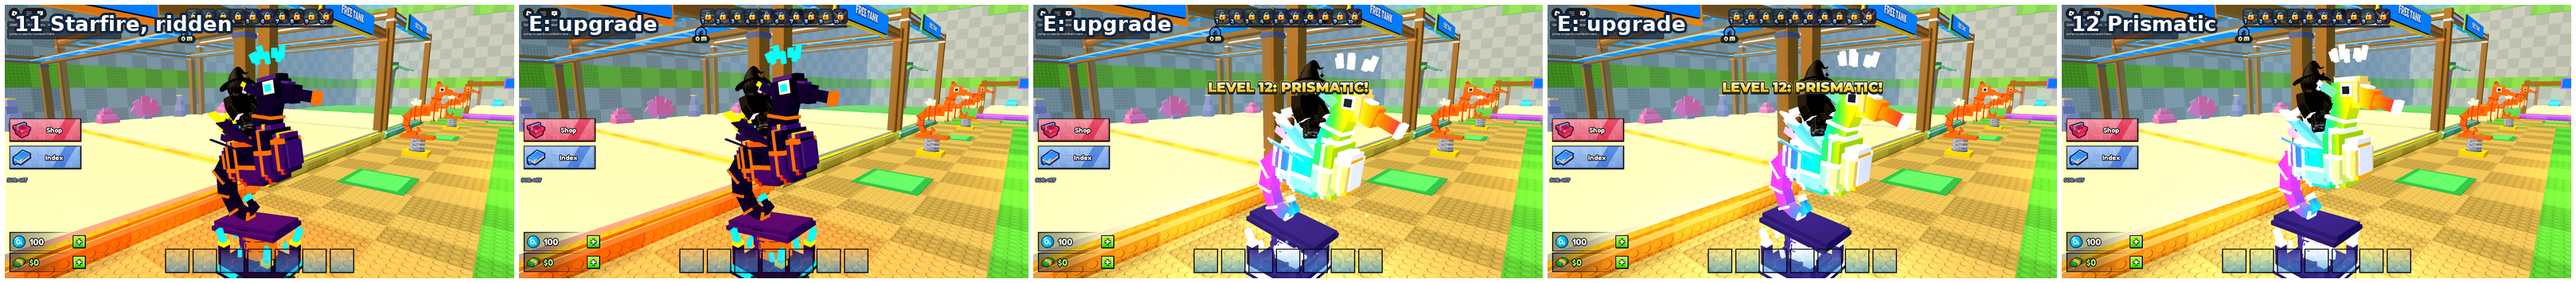
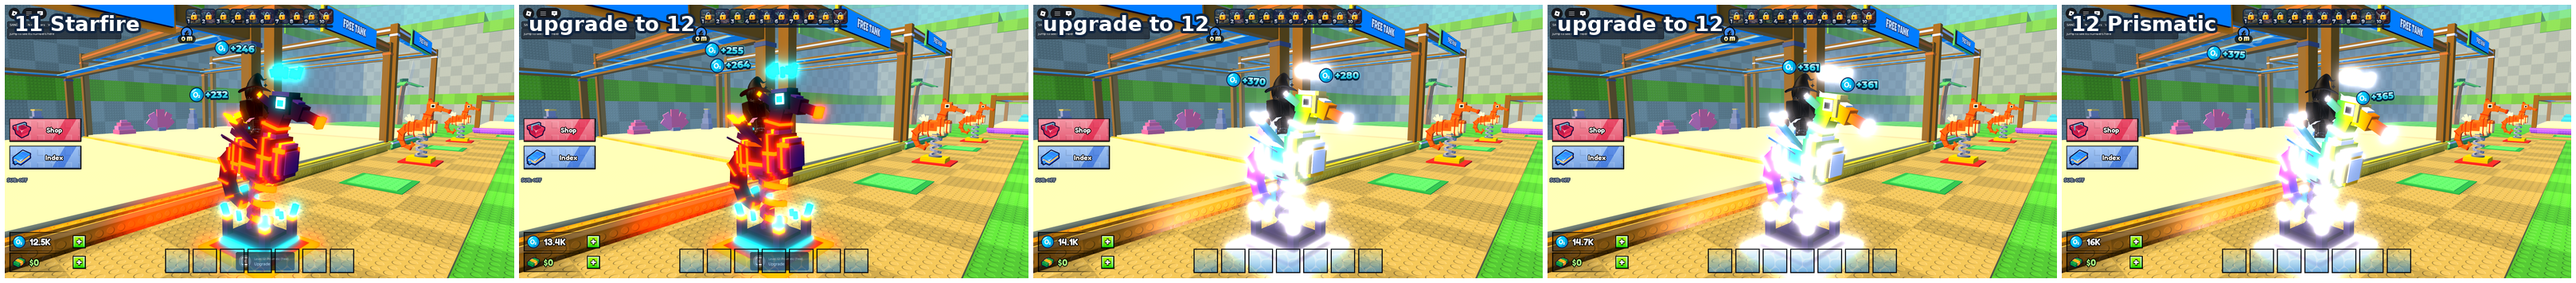
Seahorse trainer: the 12 levels in the game (task sh1), no plate
Each plot shows its owner's TrainerLevel (1-12, server's) as that level's seahorse and stand
(ReplicatedStorage.TrainerModels, exported by art/creatures/Seahorse/tiers/build_tiers.py --export,
installed locally by install_tiers.py; not uploaded). E by your own ride upgrades (free for now)
with a spring-up, flash, sparks and banner; a seated rider stays on. Hugo's change: no plate, the
coil goes from the stand straight into the belly (SpringLength 5.2, slimmer coil). Config.Train.Levels
holds placeholder Oxygen/prices for b1. Ride floor = highest seen plot surface. Stills in docs/attachments.

diff --git a/art/creatures/Seahorse/tiers/tier_stills.py b/art/creatures/Seahorse/tiers/tier_stills.py
@@ -205,14 +205,14 @@ def rider(level=12):
     time.sleep(2.5)
     r = ask("info")
     print("rider:", r.get("rider"), flush=True)
-    camera(r, side=11, ahead=9, up=3.5, at=8)
+    camera(r, side=17, ahead=14, up=4.0, at=9.5)
     time.sleep(1.2)
     keep(label(shot(OUT / "rider.png", 1280), f"Level {level}: {NAMES[level]}, ridden", 34),
          f"seahorse-tier{level}-rider-1.png")
     server("workspace:SetAttribute('SH1Cam', nil) return 'ok'")
 
 
-def side_camera(r, far=10.0, up=0.6, at=5.2):
+def side_camera(r, far=17.0, up=1.0, at=4.2):
     """from the ride's right side, level with where the coil meets the body (the stand's top + SpringLength)"""
     ax = r["axis"]
     lx, lz = r["look"]
@@ -256,7 +256,7 @@ def rock(level=12):
     time.sleep(3.5)
     r = ask("info")
     print("rider:", r.get("rider"), flush=True)
-    side_camera(r, far=15, up=1.5, at=6.5)
+    side_camera(r, far=21, up=2.0, at=6.0)
     time.sleep(1)
     frames = [label(shot(OUT / f"rock{k}.png", 640), f"{level} {NAMES[level]}, ridden") for k in range(5)]
     w, h = frames[0].size

diff --git a/docs/Handoff.md b/docs/Handoff.md
@@ -3,6 +3,25 @@
 What each push changed, so whoever pulls next knows where things stand. Newest first. Every hand-made push gets an entry
 here; the Obsidian Git plugin's own "vault sync" commits don't need one.
 
+## 2026-11-19 · The seahorse trainer's 12 levels in the game, no plate (NULLROOM task sh1, Hugo's PC)
+**State:** in the game code, the 12 models installed **locally** in Hugo's Studio (not uploaded), checked in a Studio
+playtest by script; **not played by hand. The place is not saved** (Ctrl+S keeps `ReplicatedStorage.TrainerModels`).
+All in [the trainer](design/trainer.md), "The 12 levels".
+- The draft m1 (Toy to Prismatic, the stand climbing with it), exported per level by
+  `art/creatures/Seahorse/tiers/build_tiers.py --export` and installed by `install_tiers.py` (mesh files in Studio's
+  content folder, `rbxasset://ridefish/Trainer<n>/`, as the creatures' `--local`).
+- Each plot's seahorse is its owner's `TrainerLevel` (1 to 12, the server's, for the session). E by your own ride
+  goes up a level (free for now, `Train.Free`), rebuilt at once with a spring-up, a flash, sparks and a "LEVEL n: NAME!"
+  banner; a seated rider stays on. The sign shows the level, the next and its price.
+- **Hugo's change (no plate):** the spring goes from the stand straight into the seahorse's belly on every level
+  (`SpringLength` 5.2), a little slimmer coil (radius 1.0, wire 0.45, the kit's toy too).
+- `Config.Train.Levels`: Oxygen a second and price per level, **placeholders** for the economy pick (b1); level 1 is
+  today's 4. Riding gains the level's Oxygen (plus `Share`, until b1 sets it to 0).
+- The ride's floor is now the plot's highest seen surface (a plot Pad buried the thin pads).
+- Pictures: `seahorse-tiers-game-1.png`, `seahorse-tiers-joint-1.png`, `seahorse-tier5-rock-1.png`,
+  `seahorse-tier12-rider-1.png`, `seahorse-tier-upgrade-1.png`.
+- **Not done:** the upload (needs Hugo's OK), saves, a Robux price.
+
 ## 2026-11-19 · The fish pictures are the partner's renders (NULLROOM task r1, Hugo's PC)
 **State:** in the game code and checked in a Studio playtest by script; **not uploaded, so live servers still draw the
 models**; not played by hand or on a phone. All in [UI](design/ui.md), "The fish pictures are the partner's renders".

diff --git a/docs/design/trainer.md b/docs/design/trainer.md
@@ -18,6 +18,8 @@ the player about every 0.5 s."
   under the seahorse, and sets the seahorse down to the coil's length. **Not yet in the kit:** `tools/map/hub_kit.py`
   still builds the old machine, so in Edit (and after a hub rebuild) it is there until Play. Changing the kit means a
   hub rebuild in the place: left for Hugo's word.
+- **The floor under the ride** is the highest seen surface of the plot under its coil (a plot's Pad can cover the
+  trainer's corner, 0.4 studs over the hub's floor, and buried the levels' thin pads), not the kit spot's underside.
 - **Getting on:** walk up to it (within 5.5 studs of the coil, flat) and you are seated; or jump on it (come down within
   3.6 studs of the coil, above the body's underside). After hopping off you must step away before a walk-up seats you
   again (and off its top before coming down on it does), so you don't hop straight back on. Your own plot's toy only; with no plot, the nearest free one.
@@ -42,6 +44,10 @@ The draft (mission 20e4833b task m1, `art/creatures/Seahorse/tiers/trainer.py`, 
 Saddled, Racer, Iron, Spiked, Knight, Royal, Golden, Abyssal, Starfire, Prismatic, the stand climbing with it.
 
 ![each level on a plot in the game](../attachments/seahorse-tiers-game-1.png)
+![no plate: the spring into the seahorse, every level, side on](../attachments/seahorse-tiers-joint-1.png)
+![level 5 ridden: five frames of the rock, the coil bending and still in the body](../attachments/seahorse-tier5-rock-1.png)
+![level 12 ridden](../attachments/seahorse-tier12-rider-1.png)
+![an upgrade, 11 to 12 (frames about a second apart: the spring up and the flash fall between them)](../attachments/seahorse-tier-upgrade-1.png)
 
 - **Each plot shows its owner's level.** The player's `TrainerLevel` (1 to 12, the server's, for the session like
   the coins) picks which seahorse and stand the plot's ride is: `ReplicatedStorage.TrainerModels.T<n>`. A plot with no
